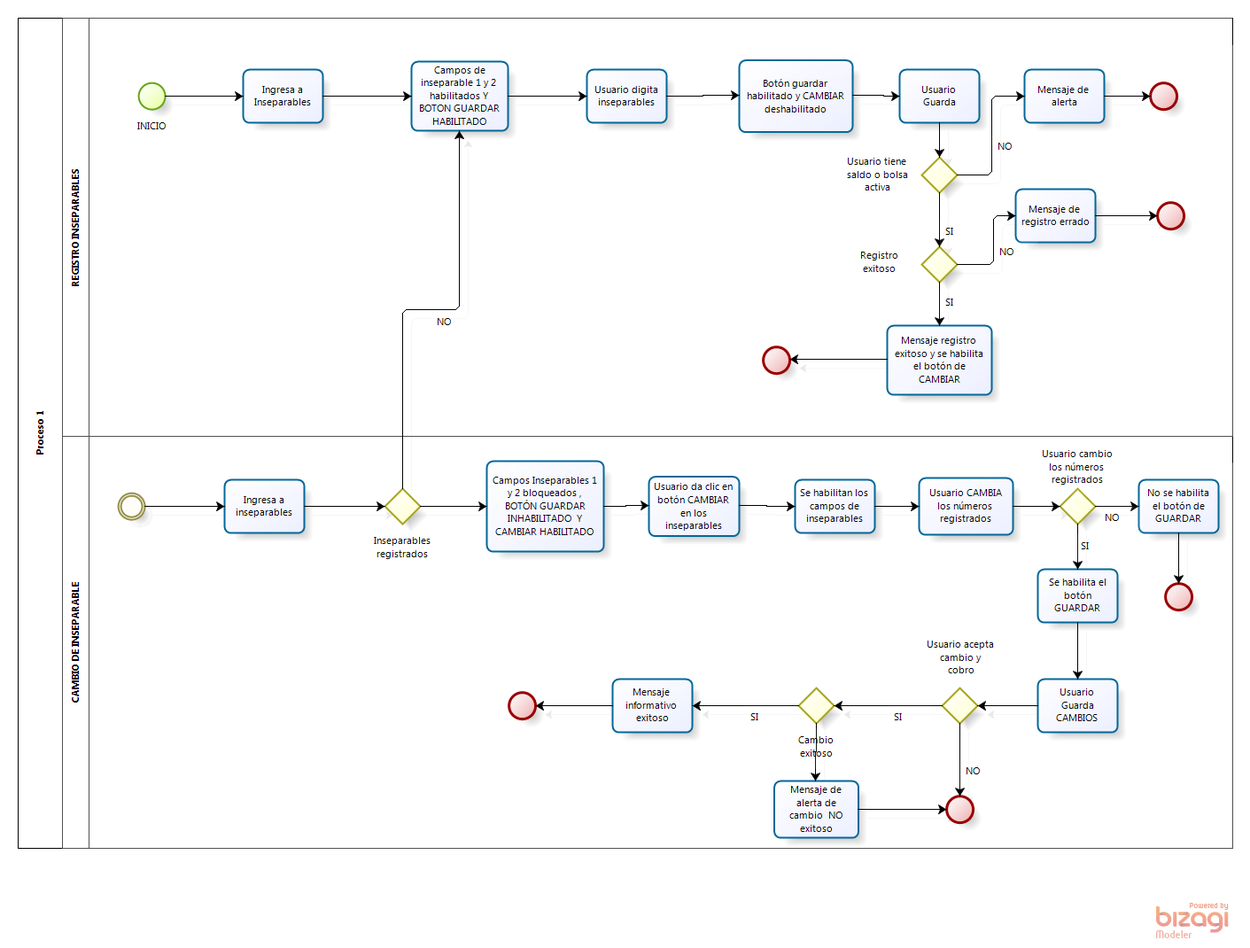
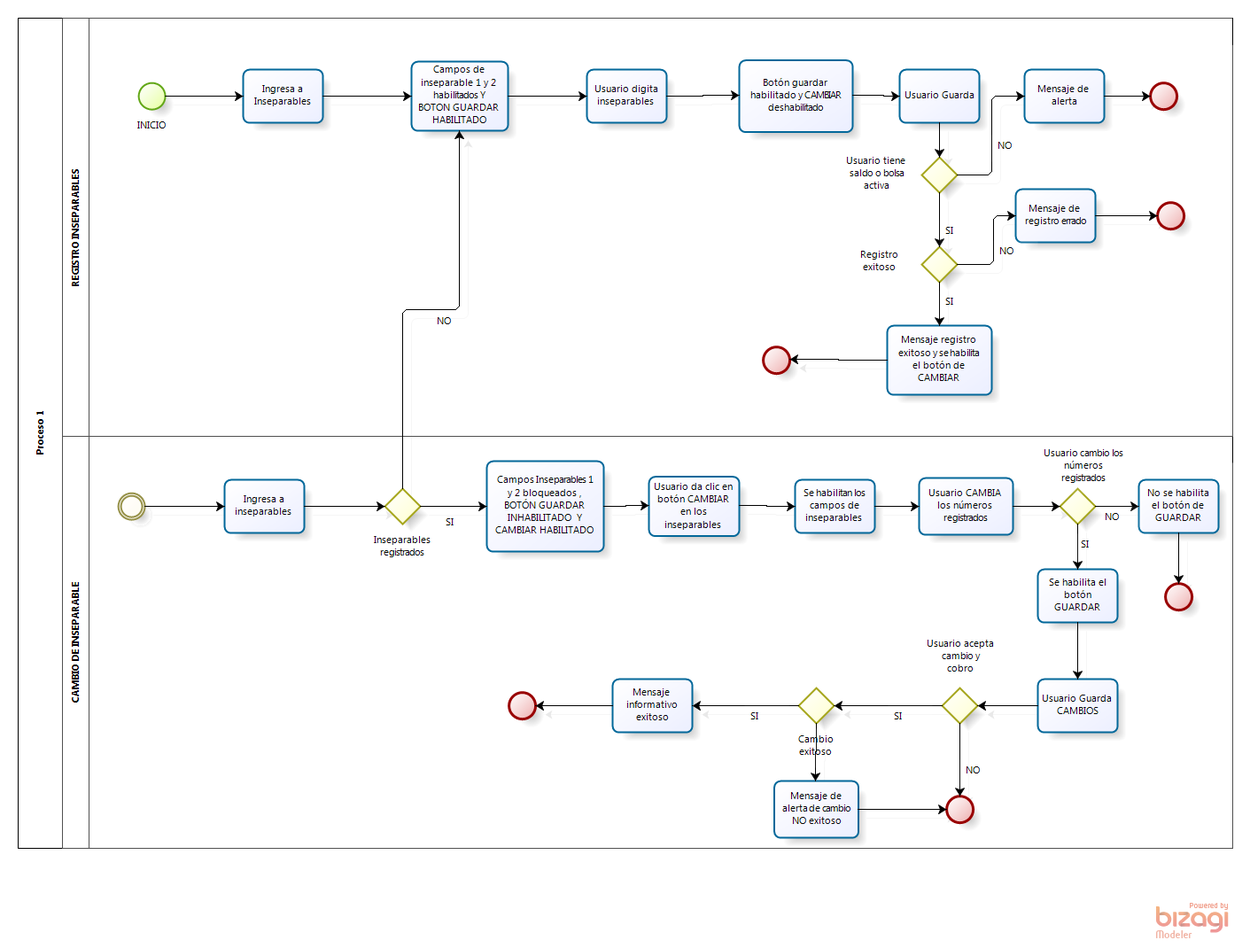
v2.0
Decisiones adicionales

diff --git a/libs/js/json/configuration.json.js b/libs/js/json/configuration.json.js
@@ -1,1 +1,1 @@
-Bizagi.AppModel = {"personalized":false,"userLogoName":"\\libs\\img\\biz-ex-logo.png","bizagiUrl":"http://www.bizagi.com","productName":"Bizagi Process Modeler","modelName":"FLUJO INSEPARABLES V1.0","publishDate":"30/09/2016 09:10:00 a.m.","pages":[{"id":"01a128ee-2be6-414b-a0e6-1554eb43cc81","name":"Diagrama 1","version":"1.0","author":"jgoyeneche","image":"files\\diagrams\\Diagrama_1.png","isSubprocessPage":false,"elements":[{"id":"2af0f6e2-8424-4db7-872c-7b3b4e20bb61","name":"Proceso 1","elementImage":"files\\bpmnElements\\Participant.png","imageBounds":{"points":[{"x":20.0,"y":20.0}],"radius":0.0,"height":937.0,"width":50.0,"shape":"rect"},"elementType":"Participant","pageElements":[{"id":"b8ba07e0-8940-4ed6-acfc-fde3a4902f71","name":"INICIO","elementImage":"files\\bpmnElements\\NoneStart.png","imageBounds":{"points":[{"x":156.0,"y":93.0}],"radius":15.0,"height":30.0,"width":30.0,"shape":"circle"},"elementType":"NoneStart"},{"id":"13f8a951-b37a-4164-8116-332023938bc8","name":"Ingresa a Inseparables","elementImage":"files\\bpmnElements\\AbstractTask.png","imageBounds":{"points":[{"x":274.0,"y":78.0}],"radius":0.0,"height":60.0,"width":90.0,"shape":"rect"},"elementType":"AbstractTask","properties":[]},{"id":"acbdd8df-887f-4461-aa16-e4ef92aa2caa","name":"Campos de inseparable 1 y 2 habilitados Y BOTON GUARDAR HABILITADO","elementImage":"files\\bpmnElements\\AbstractTask.png","imageBounds":{"points":[{"x":464.0,"y":69.0}],"radius":0.0,"height":78.0,"width":109.0,"shape":"rect"},"elementType":"AbstractTask","properties":[]},{"id":"dabdf7ad-f3f3-4ce9-a322-d9faf3807106","name":"Usuario digita inseparables","elementImage":"files\\bpmnElements\\AbstractTask.png","imageBounds":{"points":[{"x":662.0,"y":78.0}],"radius":0.0,"height":60.0,"width":90.0,"shape":"rect"},"elementType":"AbstractTask","properties":[]},{"id":"af2a5fd4-d030-4412-97b0-7c3b95d8464a","name":"Botón guardar habilitado y CAMBIAR deshabilitado","elementImage":"files\\bpmnElements\\AbstractTask.png","imageBounds":{"points":[{"x":834.0,"y":67.5}],"radius":0.0,"height":81.0,"width":128.0,"shape":"rect"},"elementType":"AbstractTask","properties":[]},{"id":"bcb52845-66c1-4c8f-b746-74e1403de68c","name":"Usuario Guarda","elementImage":"files\\bpmnElements\\AbstractTask.png","imageBounds":{"points":[{"x":1015.0,"y":78.0}],"radius":0.0,"height":60.0,"width":90.0,"shape":"rect"},"elementType":"AbstractTask","properties":[]},{"id":"b2fc5b47-1ab0-4dc8-a2f9-0df27e0af09b","name":"Usuario tiene saldo o bolsa activa","elementImage":"files\\bpmnElements\\ExclusiveGateway.png","imageBounds":{"points":[{"x":1040.0,"y":177.0}],"radius":0.0,"height":40.0,"width":40.0,"shape":"poly"},"elementType":"ExclusiveGateway","properties":[],"pageElements":[{"name":"SI","elementType":"SequenceFlow","properties":[]},{"name":"NO","elementType":"SequenceFlow","properties":[]}]},{"id":"20a5b47d-3b0e-434e-9439-94b6a344d32f","name":"Registro exitoso","elementImage":"files\\bpmnElements\\ExclusiveGateway.png","imageBounds":{"points":[{"x":1040.0,"y":278.0}],"radius":0.0,"height":40.0,"width":40.0,"shape":"poly"},"elementType":"ExclusiveGateway","properties":[],"pageElements":[{"name":"NO","elementType":"SequenceFlow","properties":[]},{"name":"SI","elementType":"SequenceFlow","properties":[]}]},{"id":"046c802e-0c74-4300-a1c9-315c52ce7336","name":"Mensaje registro exitoso y se habilita el botón de CAMBIAR","elementImage":"files\\bpmnElements\\AbstractTask.png","imageBounds":{"points":[{"x":1001.0,"y":367.0}],"radius":0.0,"height":78.0,"width":118.0,"shape":"rect"},"elementType":"AbstractTask","properties":[]},{"id":"d5538574-af4e-46a9-ba32-2482d75119e9","name":"Simple","elementImage":"files\\bpmnElements\\NoneEnd.png","imageBounds":{"points":[{"x":861.0,"y":390.999969}],"radius":15.0,"height":30.0,"width":30.0,"shape":"circle"},"elementType":"NoneEnd"},{"id":"b83f0fd2-bca6-4348-bf78-3dba9e42f9a5","name":"Mensaje de registro errado","elementImage":"files\\bpmnElements\\AbstractTask.png","imageBounds":{"points":[{"x":1146.0,"y":213.0}],"radius":0.0,"height":60.0,"width":90.0,"shape":"rect"},"elementType":"AbstractTask","properties":[]},{"id":"0e9a61be-d866-47ac-a229-832d4a90310c","name":"Simple","elementImage":"files\\bpmnElements\\NoneEnd.png","imageBounds":{"points":[{"x":1306.0,"y":228.0}],"radius":15.0,"height":30.0,"width":30.0,"shape":"circle"},"elementType":"NoneEnd"},{"id":"b5cbed1e-7ab6-4d23-8ce3-3484a4eca612","name":"Mensaje de alerta ","elementImage":"files\\bpmnElements\\AbstractTask.png","imageBounds":{"points":[{"x":1156.0,"y":78.0}],"radius":0.0,"height":60.0,"width":90.0,"shape":"rect"},"elementType":"AbstractTask","properties":[]},{"id":"1e777851-ec50-4e3e-a79a-13f4f715d6c1","name":"Simple","elementImage":"files\\bpmnElements\\NoneEnd.png","imageBounds":{"points":[{"x":1298.0,"y":93.0}],"radius":15.0,"height":30.0,"width":30.0,"shape":"circle"},"elementType":"NoneEnd"},{"id":"c10985f5-9ed6-439c-8f32-ddfc0bf2ed9d","name":"Inseparables registrados","elementImage":"files\\bpmnElements\\ExclusiveGateway.png","imageBounds":{"points":[{"x":434.0,"y":551.0}],"radius":0.0,"height":40.0,"width":40.0,"shape":"poly"},"elementType":"ExclusiveGateway","properties":[],"pageElements":[{"name":"NO","elementType":"SequenceFlow","properties":[]},{"name":"Campos Inseparables 1 y 2 bloqueados , BOTÓN GUARDAR INHABILITADO  Y CAMBIAR HABILITADO","elementType":"SequenceFlow","properties":[]}]},{"id":"87e258d3-9a9b-47d6-948b-597c4e45ade4","name":"Campos Inseparables 1 y 2 bloqueados , BOTÓN GUARDAR INHABILITADO  Y CAMBIAR HABILITADO","elementImage":"files\\bpmnElements\\AbstractTask.png","imageBounds":{"points":[{"x":549.0,"y":520.0}],"radius":0.0,"height":102.0,"width":132.0,"shape":"rect"},"elementType":"AbstractTask","properties":[]},{"id":"f075516c-d99a-4b81-9b78-ad1f35954093","name":"Usuario da clic en botón CAMBIAR en los inseparables","elementImage":"files\\bpmnElements\\AbstractTask.png","imageBounds":{"points":[{"x":732.0,"y":537.5}],"radius":0.0,"height":67.0,"width":102.0,"shape":"rect"},"elementType":"AbstractTask","properties":[]},{"id":"10dffe9f-9d0a-40d6-9e39-5d494e64915b","name":"Se habilitan los campos de inseparables","elementImage":"files\\bpmnElements\\AbstractTask.png","imageBounds":{"points":[{"x":897.0,"y":541.0}],"radius":0.0,"height":60.0,"width":90.0,"shape":"rect"},"elementType":"AbstractTask","properties":[]},{"id":"f1d0d034-e2c9-4bd9-be72-bd36426d7591","name":"Usuario CAMBIA los números registrados","elementImage":"files\\bpmnElements\\AbstractTask.png","imageBounds":{"points":[{"x":1037.0,"y":539.0}],"radius":0.0,"height":64.0,"width":106.0,"shape":"rect"},"elementType":"AbstractTask","properties":[]},{"id":"d2b2a14a-bbd4-40c4-8f0d-9f554c621398","name":"Usuario cambio los números registrados","elementImage":"files\\bpmnElements\\ExclusiveGateway.png","imageBounds":{"points":[{"x":1196.0,"y":551.0}],"radius":0.0,"height":40.0,"width":40.0,"shape":"poly"},"elementType":"ExclusiveGateway","properties":[],"pageElements":[{"name":"NO","elementType":"SequenceFlow","properties":[]},{"name":"SI","elementType":"SequenceFlow","properties":[]}]},{"id":"3f60456e-31fc-4485-837b-100361c7bbbf","name":"No se habilita el botón de GUARDAR","elementImage":"files\\bpmnElements\\AbstractTask.png","imageBounds":{"points":[{"x":1285.0,"y":541.0}],"radius":0.0,"height":60.0,"width":90.0,"shape":"rect"},"elementType":"AbstractTask","properties":[]},{"id":"1fffb799-79dd-4192-aae2-9133c8abe69b","name":"Simple","elementImage":"files\\bpmnElements\\NoneEnd.png","imageBounds":{"points":[{"x":1315.0,"y":658.0}],"radius":15.0,"height":30.0,"width":30.0,"shape":"circle"},"elementType":"NoneEnd"},{"id":"dd4baf11-0e95-4ae8-ba43-04c827d12988","name":"Se habilita el botón GUARDAR","elementImage":"files\\bpmnElements\\AbstractTask.png","imageBounds":{"points":[{"x":1171.0,"y":642.0}],"radius":0.0,"height":60.0,"width":90.0,"shape":"rect"},"elementType":"AbstractTask","properties":[]},{"id":"8b32eaa3-2b74-444b-8ee1-6408e9d34cdc","name":"Usuario Guarda CAMBIOS","elementImage":"files\\bpmnElements\\AbstractTask.png","imageBounds":{"points":[{"x":1171.0,"y":766.0}],"radius":0.0,"height":60.0,"width":90.0,"shape":"rect"},"elementType":"AbstractTask","properties":[]},{"id":"49562a8a-a16e-45ee-877a-e9bc5541dc62","name":"Usuario acepta cambio y cobro","elementImage":"files\\bpmnElements\\ExclusiveGateway.png","imageBounds":{"points":[{"x":1063.0,"y":776.0}],"radius":0.0,"height":40.0,"width":40.0,"shape":"poly"},"elementType":"ExclusiveGateway","properties":[],"pageElements":[{"name":"SI","elementType":"SequenceFlow","properties":[]},{"name":"NO","elementType":"SequenceFlow","properties":[]}]},{"id":"b9d3ab1c-fc5e-41df-81fb-5757518d20a7","name":"Cambio exitoso","elementImage":"files\\bpmnElements\\ExclusiveGateway.png","imageBounds":{"points":[{"x":901.0,"y":776.0}],"radius":0.0,"height":40.0,"width":40.0,"shape":"poly"},"elementType":"ExclusiveGateway","properties":[],"pageElements":[{"name":"SI","elementType":"SequenceFlow","properties":[]},{"name":"Mensaje de alerta de cambio  NO exitoso","elementType":"SequenceFlow","properties":[]}]},{"id":"876c63e2-e37b-48ae-9e2f-0c12bc2fe8c7","name":"Mensaje informativo exitoso","elementImage":"files\\bpmnElements\\AbstractTask.png","imageBounds":{"points":[{"x":691.0,"y":766.0}],"radius":0.0,"height":60.0,"width":90.0,"shape":"rect"},"elementType":"AbstractTask","properties":[]},{"id":"7e0210c6-043e-4d6c-8a3e-c56379e9cc42","name":"Simple","elementImage":"files\\bpmnElements\\NoneEnd.png","imageBounds":{"points":[{"x":574.0,"y":781.0}],"radius":15.0,"height":30.0,"width":30.0,"shape":"circle"},"elementType":"NoneEnd"},{"id":"14d585a5-845b-4b7c-aba2-5936d54665f4","name":"Mensaje de alerta de cambio  NO exitoso","elementImage":"files\\bpmnElements\\AbstractTask.png","imageBounds":{"points":[{"x":873.5,"y":881.0}],"radius":0.0,"height":64.0,"width":95.0,"shape":"rect"},"elementType":"AbstractTask","properties":[]},{"id":"b31ea22c-ddcb-424d-89f5-8a4ca8d96ed0","name":"Simple","elementImage":"files\\bpmnElements\\NoneEnd.png","imageBounds":{"points":[{"x":1068.0,"y":898.0}],"radius":15.0,"height":30.0,"width":30.0,"shape":"circle"},"elementType":"NoneEnd"},{"id":"573dd8cd-d153-44be-865f-1ff82c0e268f","name":"Ingresa a inseparables","elementImage":"files\\bpmnElements\\AbstractTask.png","imageBounds":{"points":[{"x":253.0,"y":541.0}],"radius":0.0,"height":60.0,"width":90.0,"shape":"rect"},"elementType":"AbstractTask","properties":[]},{"id":"43202375-5e6e-44a3-9d03-ed3e79e5dc20","name":"Simple","elementImage":"files\\bpmnElements\\NoneIntermediate.png","imageBounds":{"points":[{"x":133.0,"y":556.0}],"radius":15.0,"height":30.0,"width":30.0,"shape":"circle"},"elementType":"NoneIntermediate"},{"id":"f35a0217-5de6-4b6b-9196-6f0673a6e8ee","name":"REGISTRO INSEPARABLES","elementImage":"files\\bpmnElements\\Lane.png","imageBounds":{"points":[{"x":70.0,"y":20.0}],"radius":0.0,"height":472.0,"width":30.0,"shape":"rect"},"elementType":"Lane"},{"id":"0af3581a-c9a8-4ae8-a526-20751237bf52","name":"CAMBIO DE INSEPARABLE","elementImage":"files\\bpmnElements\\Lane.png","imageBounds":{"points":[{"x":70.0,"y":492.0}],"radius":0.0,"height":465.0,"width":30.0,"shape":"rect"},"elementType":"Lane"}]}]}],"texts":{"tableOfContents":"Tabla de Contenidos","pageNumber":"Página","pageNumberLabelOf":"de","version":"Versión","author":"Autor","description":"Descripción","mainPool":"Proceso principal","mainPoolDescription":"Proceso principal Descripción","processDiagrams":"Diagramas de Proceso","processElements":"Elementos del proceso","elements":"Elementos del proceso","defaultElementName":"Elemento","performers":"Ejecutantes","connectors":"Conectores","connector":"Conector","home":"Home","search":"Buscar","goToParentProcess":"<< Ir al proceso padre","visitBizagi":"Visite bizagi.com","contains":"Contiene {0} Subprocesos","showAll":"Ver todo","fullScreen":"Pantalla completa","zoomIn":"Acercar","zoomOut":"Alejar","close":"Cerrar","menu":"Menu: ","errorPage":"Error al visualizar la página","process":"Proceso","subProcess":"Subprocesos publicados","contain":"Contains","checkAttributes":"Ver atributos","checkOverview":"Ver resumen","unavailableResource":"El recurso no esta disponible","localResource":"El recurso puede accederse localmente","performer":"Ejecutante","linktoimage":"Hipervínculo a imagen","presentationAction":"Acciones de presentación","searchGlobal":"Buscar todo","searchLocal":"Buscar en este proceso","searchResults":"No se encontraron resultados","titlePage":"Inicio","emptyElement":"Este elemento aún no se ha documentado","unsupported":"Su navegador no soporta contenido mostrado en esta página. <br> Le recomendamos actualizar su navegador.","details":"Detalles","expand":"Expandir","mainPoolProperties":"Propiedades Proceso principal","cannotVisualize":"No es posible visualizar correctamente","resourceNotFound":"No se encontró el recurso solicitado:"},"searchMap":[{"containerId":"01a128ee-2be6-414b-a0e6-1554eb43cc81","containerName":"Diagrama 1","isSubprocess":false,"elements":[{"id":"2af0f6e2-8424-4db7-872c-7b3b4e20bb61","value":"Proceso 1"},{"id":"f35a0217-5de6-4b6b-9196-6f0673a6e8ee","value":"REGISTRO INSEPARABLES"},{"id":"0af3581a-c9a8-4ae8-a526-20751237bf52","value":"CAMBIO DE INSEPARABLE"},{"id":"b8ba07e0-8940-4ed6-acfc-fde3a4902f71","value":"INICIO"},{"id":"13f8a951-b37a-4164-8116-332023938bc8","value":"Ingresa a Inseparables"},{"id":"acbdd8df-887f-4461-aa16-e4ef92aa2caa","value":"Campos de inseparable 1 y 2 habilitados Y BOTON GUARDAR HABILITADO"},{"id":"dabdf7ad-f3f3-4ce9-a322-d9faf3807106","value":"Usuario digita inseparables"},{"id":"af2a5fd4-d030-4412-97b0-7c3b95d8464a","value":"Botón guardar habilitado y CAMBIAR deshabilitado"},{"id":"bcb52845-66c1-4c8f-b746-74e1403de68c","value":"Usuario Guarda"},{"id":"20a5b47d-3b0e-434e-9439-94b6a344d32f","value":"Registro exitoso"},{"id":"046c802e-0c74-4300-a1c9-315c52ce7336","value":"Mensaje registro exitoso y se habilita el botón de CAMBIAR"},{"id":"d5538574-af4e-46a9-ba32-2482d75119e9","value":""},{"id":"b83f0fd2-bca6-4348-bf78-3dba9e42f9a5","value":"Mensaje de registro errado"},{"id":"0e9a61be-d866-47ac-a229-832d4a90310c","value":""},{"id":"b2fc5b47-1ab0-4dc8-a2f9-0df27e0af09b","value":"Usuario tiene saldo o bolsa activa"},{"id":"b5cbed1e-7ab6-4d23-8ce3-3484a4eca612","value":"Mensaje de alerta "},{"id":"1e777851-ec50-4e3e-a79a-13f4f715d6c1","value":""},{"id":"573dd8cd-d153-44be-865f-1ff82c0e268f","value":"Ingresa a inseparables"},{"id":"c10985f5-9ed6-439c-8f32-ddfc0bf2ed9d","value":"Inseparables registrados"},{"id":"87e258d3-9a9b-47d6-948b-597c4e45ade4","value":"Campos Inseparables 1 y 2 bloqueados , BOTÓN GUARDAR INHABILITADO  Y CAMBIAR HABILITADO"},{"id":"f075516c-d99a-4b81-9b78-ad1f35954093","value":"Usuario da clic en botón CAMBIAR en los inseparables"},{"id":"10dffe9f-9d0a-40d6-9e39-5d494e64915b","value":"Se habilitan los campos de inseparables"},{"id":"f1d0d034-e2c9-4bd9-be72-bd36426d7591","value":"Usuario CAMBIA los números registrados"},{"id":"d2b2a14a-bbd4-40c4-8f0d-9f554c621398","value":"Usuario cambio los números registrados"},{"id":"3f60456e-31fc-4485-837b-100361c7bbbf","value":"No se habilita el botón de GUARDAR"},{"id":"dd4baf11-0e95-4ae8-ba43-04c827d12988","value":"Se habilita el botón GUARDAR"},{"id":"1fffb799-79dd-4192-aae2-9133c8abe69b","value":""},{"id":"8b32eaa3-2b74-444b-8ee1-6408e9d34cdc","value":"Usuario Guarda CAMBIOS"},{"id":"49562a8a-a16e-45ee-877a-e9bc5541dc62","value":"Usuario acepta cambio y cobro"},{"id":"b9d3ab1c-fc5e-41df-81fb-5757518d20a7","value":"Cambio exitoso"},{"id":"876c63e2-e37b-48ae-9e2f-0c12bc2fe8c7","value":"Mensaje informativo exitoso"},{"id":"b31ea22c-ddcb-424d-89f5-8a4ca8d96ed0","value":""},{"id":"14d585a5-845b-4b7c-aba2-5936d54665f4","value":"Mensaje de alerta de cambio  NO exitoso"},{"id":"7e0210c6-043e-4d6c-8a3e-c56379e9cc42","value":""},{"id":"43202375-5e6e-44a3-9d03-ed3e79e5dc20","value":""}]}]}
+Bizagi.AppModel = {"personalized":false,"userLogoName":"\\libs\\img\\biz-ex-logo.png","bizagiUrl":"http://www.bizagi.com","productName":"Bizagi Process Modeler","modelName":"FLUJO INSEPARABLES V1.0","publishDate":"30/09/2016 09:36:03 a.m.","pages":[{"id":"01a128ee-2be6-414b-a0e6-1554eb43cc81","name":"Diagrama 1","version":"1.0","author":"jgoyeneche","image":"files\\diagrams\\Diagrama_1.png","isSubprocessPage":false,"elements":[{"id":"2af0f6e2-8424-4db7-872c-7b3b4e20bb61","name":"Proceso 1","elementImage":"files\\bpmnElements\\Participant.png","imageBounds":{"points":[{"x":20.0,"y":20.0}],"radius":0.0,"height":937.0,"width":50.0,"shape":"rect"},"elementType":"Participant","pageElements":[{"id":"b8ba07e0-8940-4ed6-acfc-fde3a4902f71","name":"INICIO","elementImage":"files\\bpmnElements\\NoneStart.png","imageBounds":{"points":[{"x":156.0,"y":93.0}],"radius":15.0,"height":30.0,"width":30.0,"shape":"circle"},"elementType":"NoneStart"},{"id":"13f8a951-b37a-4164-8116-332023938bc8","name":"Ingresa a Inseparables","elementImage":"files\\bpmnElements\\AbstractTask.png","imageBounds":{"points":[{"x":274.0,"y":78.0}],"radius":0.0,"height":60.0,"width":90.0,"shape":"rect"},"elementType":"AbstractTask","properties":[]},{"id":"acbdd8df-887f-4461-aa16-e4ef92aa2caa","name":"Campos de inseparable 1 y 2 habilitados Y BOTON GUARDAR HABILITADO","elementImage":"files\\bpmnElements\\AbstractTask.png","imageBounds":{"points":[{"x":464.0,"y":69.0}],"radius":0.0,"height":78.0,"width":109.0,"shape":"rect"},"elementType":"AbstractTask","properties":[]},{"id":"dabdf7ad-f3f3-4ce9-a322-d9faf3807106","name":"Usuario digita inseparables","elementImage":"files\\bpmnElements\\AbstractTask.png","imageBounds":{"points":[{"x":662.0,"y":78.0}],"radius":0.0,"height":60.0,"width":90.0,"shape":"rect"},"elementType":"AbstractTask","properties":[]},{"id":"af2a5fd4-d030-4412-97b0-7c3b95d8464a","name":"Botón guardar habilitado y CAMBIAR deshabilitado","elementImage":"files\\bpmnElements\\AbstractTask.png","imageBounds":{"points":[{"x":834.0,"y":67.5}],"radius":0.0,"height":81.0,"width":128.0,"shape":"rect"},"elementType":"AbstractTask","properties":[]},{"id":"bcb52845-66c1-4c8f-b746-74e1403de68c","name":"Usuario Guarda","elementImage":"files\\bpmnElements\\AbstractTask.png","imageBounds":{"points":[{"x":1015.0,"y":78.0}],"radius":0.0,"height":60.0,"width":90.0,"shape":"rect"},"elementType":"AbstractTask","properties":[]},{"id":"b2fc5b47-1ab0-4dc8-a2f9-0df27e0af09b","name":"Usuario tiene saldo o bolsa activa","elementImage":"files\\bpmnElements\\ExclusiveGateway.png","imageBounds":{"points":[{"x":1040.0,"y":177.0}],"radius":0.0,"height":40.0,"width":40.0,"shape":"poly"},"elementType":"ExclusiveGateway","properties":[],"pageElements":[{"name":"SI","elementType":"SequenceFlow","properties":[]},{"name":"NO","elementType":"SequenceFlow","properties":[]}]},{"id":"20a5b47d-3b0e-434e-9439-94b6a344d32f","name":"Registro exitoso","elementImage":"files\\bpmnElements\\ExclusiveGateway.png","imageBounds":{"points":[{"x":1040.0,"y":278.0}],"radius":0.0,"height":40.0,"width":40.0,"shape":"poly"},"elementType":"ExclusiveGateway","properties":[],"pageElements":[{"name":"NO","elementType":"SequenceFlow","properties":[]},{"name":"SI","elementType":"SequenceFlow","properties":[]}]},{"id":"046c802e-0c74-4300-a1c9-315c52ce7336","name":"Mensaje registro exitoso y se habilita el botón de CAMBIAR","elementImage":"files\\bpmnElements\\AbstractTask.png","imageBounds":{"points":[{"x":1001.0,"y":367.0}],"radius":0.0,"height":78.0,"width":118.0,"shape":"rect"},"elementType":"AbstractTask","properties":[]},{"id":"d5538574-af4e-46a9-ba32-2482d75119e9","name":"Simple","elementImage":"files\\bpmnElements\\NoneEnd.png","imageBounds":{"points":[{"x":861.0,"y":390.999969}],"radius":15.0,"height":30.0,"width":30.0,"shape":"circle"},"elementType":"NoneEnd"},{"id":"b83f0fd2-bca6-4348-bf78-3dba9e42f9a5","name":"Mensaje de registro errado","elementImage":"files\\bpmnElements\\AbstractTask.png","imageBounds":{"points":[{"x":1146.0,"y":213.0}],"radius":0.0,"height":60.0,"width":90.0,"shape":"rect"},"elementType":"AbstractTask","properties":[]},{"id":"0e9a61be-d866-47ac-a229-832d4a90310c","name":"Simple","elementImage":"files\\bpmnElements\\NoneEnd.png","imageBounds":{"points":[{"x":1306.0,"y":228.0}],"radius":15.0,"height":30.0,"width":30.0,"shape":"circle"},"elementType":"NoneEnd"},{"id":"b5cbed1e-7ab6-4d23-8ce3-3484a4eca612","name":"Mensaje de alerta ","elementImage":"files\\bpmnElements\\AbstractTask.png","imageBounds":{"points":[{"x":1156.0,"y":78.0}],"radius":0.0,"height":60.0,"width":90.0,"shape":"rect"},"elementType":"AbstractTask","properties":[]},{"id":"1e777851-ec50-4e3e-a79a-13f4f715d6c1","name":"Simple","elementImage":"files\\bpmnElements\\NoneEnd.png","imageBounds":{"points":[{"x":1298.0,"y":93.0}],"radius":15.0,"height":30.0,"width":30.0,"shape":"circle"},"elementType":"NoneEnd"},{"id":"c10985f5-9ed6-439c-8f32-ddfc0bf2ed9d","name":"Inseparables registrados","elementImage":"files\\bpmnElements\\ExclusiveGateway.png","imageBounds":{"points":[{"x":434.0,"y":551.0}],"radius":0.0,"height":40.0,"width":40.0,"shape":"poly"},"elementType":"ExclusiveGateway","properties":[],"pageElements":[{"name":"NO","elementType":"SequenceFlow","properties":[]},{"name":"SI","elementType":"SequenceFlow","properties":[]}]},{"id":"87e258d3-9a9b-47d6-948b-597c4e45ade4","name":"Campos Inseparables 1 y 2 bloqueados , BOTÓN GUARDAR INHABILITADO  Y CAMBIAR HABILITADO","elementImage":"files\\bpmnElements\\AbstractTask.png","imageBounds":{"points":[{"x":549.0,"y":520.0}],"radius":0.0,"height":102.0,"width":132.0,"shape":"rect"},"elementType":"AbstractTask","properties":[]},{"id":"f075516c-d99a-4b81-9b78-ad1f35954093","name":"Usuario da clic en botón CAMBIAR en los inseparables","elementImage":"files\\bpmnElements\\AbstractTask.png","imageBounds":{"points":[{"x":732.0,"y":537.5}],"radius":0.0,"height":67.0,"width":102.0,"shape":"rect"},"elementType":"AbstractTask","properties":[]},{"id":"10dffe9f-9d0a-40d6-9e39-5d494e64915b","name":"Se habilitan los campos de inseparables","elementImage":"files\\bpmnElements\\AbstractTask.png","imageBounds":{"points":[{"x":897.0,"y":541.0}],"radius":0.0,"height":60.0,"width":90.0,"shape":"rect"},"elementType":"AbstractTask","properties":[]},{"id":"f1d0d034-e2c9-4bd9-be72-bd36426d7591","name":"Usuario CAMBIA los números registrados","elementImage":"files\\bpmnElements\\AbstractTask.png","imageBounds":{"points":[{"x":1037.0,"y":539.0}],"radius":0.0,"height":64.0,"width":106.0,"shape":"rect"},"elementType":"AbstractTask","properties":[]},{"id":"d2b2a14a-bbd4-40c4-8f0d-9f554c621398","name":"Usuario cambio los números registrados","elementImage":"files\\bpmnElements\\ExclusiveGateway.png","imageBounds":{"points":[{"x":1196.0,"y":551.0}],"radius":0.0,"height":40.0,"width":40.0,"shape":"poly"},"elementType":"ExclusiveGateway","properties":[],"pageElements":[{"name":"NO","elementType":"SequenceFlow","properties":[]},{"name":"SI","elementType":"SequenceFlow","properties":[]}]},{"id":"3f60456e-31fc-4485-837b-100361c7bbbf","name":"No se habilita el botón de GUARDAR","elementImage":"files\\bpmnElements\\AbstractTask.png","imageBounds":{"points":[{"x":1285.0,"y":541.0}],"radius":0.0,"height":60.0,"width":90.0,"shape":"rect"},"elementType":"AbstractTask","properties":[]},{"id":"1fffb799-79dd-4192-aae2-9133c8abe69b","name":"Simple","elementImage":"files\\bpmnElements\\NoneEnd.png","imageBounds":{"points":[{"x":1315.0,"y":658.0}],"radius":15.0,"height":30.0,"width":30.0,"shape":"circle"},"elementType":"NoneEnd"},{"id":"dd4baf11-0e95-4ae8-ba43-04c827d12988","name":"Se habilita el botón GUARDAR","elementImage":"files\\bpmnElements\\AbstractTask.png","imageBounds":{"points":[{"x":1171.0,"y":642.0}],"radius":0.0,"height":60.0,"width":90.0,"shape":"rect"},"elementType":"AbstractTask","properties":[]},{"id":"8b32eaa3-2b74-444b-8ee1-6408e9d34cdc","name":"Usuario Guarda CAMBIOS","elementImage":"files\\bpmnElements\\AbstractTask.png","imageBounds":{"points":[{"x":1171.0,"y":766.0}],"radius":0.0,"height":60.0,"width":90.0,"shape":"rect"},"elementType":"AbstractTask","properties":[]},{"id":"49562a8a-a16e-45ee-877a-e9bc5541dc62","name":"Usuario acepta cambio y cobro","elementImage":"files\\bpmnElements\\ExclusiveGateway.png","imageBounds":{"points":[{"x":1063.0,"y":776.0}],"radius":0.0,"height":40.0,"width":40.0,"shape":"poly"},"elementType":"ExclusiveGateway","properties":[],"pageElements":[{"name":"SI","elementType":"SequenceFlow","properties":[]},{"name":"NO","elementType":"SequenceFlow","properties":[]}]},{"id":"b9d3ab1c-fc5e-41df-81fb-5757518d20a7","name":"Cambio exitoso","elementImage":"files\\bpmnElements\\ExclusiveGateway.png","imageBounds":{"points":[{"x":901.0,"y":776.0}],"radius":0.0,"height":40.0,"width":40.0,"shape":"poly"},"elementType":"ExclusiveGateway","properties":[],"pageElements":[{"name":"SI","elementType":"SequenceFlow","properties":[]},{"name":"Mensaje de alerta de cambio  NO exitoso","elementType":"SequenceFlow","properties":[]}]},{"id":"876c63e2-e37b-48ae-9e2f-0c12bc2fe8c7","name":"Mensaje informativo exitoso","elementImage":"files\\bpmnElements\\AbstractTask.png","imageBounds":{"points":[{"x":691.0,"y":766.0}],"radius":0.0,"height":60.0,"width":90.0,"shape":"rect"},"elementType":"AbstractTask","properties":[]},{"id":"7e0210c6-043e-4d6c-8a3e-c56379e9cc42","name":"Simple","elementImage":"files\\bpmnElements\\NoneEnd.png","imageBounds":{"points":[{"x":574.0,"y":781.0}],"radius":15.0,"height":30.0,"width":30.0,"shape":"circle"},"elementType":"NoneEnd"},{"id":"14d585a5-845b-4b7c-aba2-5936d54665f4","name":"Mensaje de alerta de cambio  NO exitoso","elementImage":"files\\bpmnElements\\AbstractTask.png","imageBounds":{"points":[{"x":873.5,"y":881.0}],"radius":0.0,"height":64.0,"width":95.0,"shape":"rect"},"elementType":"AbstractTask","properties":[]},{"id":"b31ea22c-ddcb-424d-89f5-8a4ca8d96ed0","name":"Simple","elementImage":"files\\bpmnElements\\NoneEnd.png","imageBounds":{"points":[{"x":1068.0,"y":898.0}],"radius":15.0,"height":30.0,"width":30.0,"shape":"circle"},"elementType":"NoneEnd"},{"id":"573dd8cd-d153-44be-865f-1ff82c0e268f","name":"Ingresa a inseparables","elementImage":"files\\bpmnElements\\AbstractTask.png","imageBounds":{"points":[{"x":253.0,"y":541.0}],"radius":0.0,"height":60.0,"width":90.0,"shape":"rect"},"elementType":"AbstractTask","properties":[]},{"id":"43202375-5e6e-44a3-9d03-ed3e79e5dc20","name":"Simple","elementImage":"files\\bpmnElements\\NoneIntermediate.png","imageBounds":{"points":[{"x":133.0,"y":556.0}],"radius":15.0,"height":30.0,"width":30.0,"shape":"circle"},"elementType":"NoneIntermediate"},{"id":"f35a0217-5de6-4b6b-9196-6f0673a6e8ee","name":"REGISTRO INSEPARABLES","elementImage":"files\\bpmnElements\\Lane.png","imageBounds":{"points":[{"x":70.0,"y":20.0}],"radius":0.0,"height":472.0,"width":30.0,"shape":"rect"},"elementType":"Lane"},{"id":"0af3581a-c9a8-4ae8-a526-20751237bf52","name":"CAMBIO DE INSEPARABLE","elementImage":"files\\bpmnElements\\Lane.png","imageBounds":{"points":[{"x":70.0,"y":492.0}],"radius":0.0,"height":465.0,"width":30.0,"shape":"rect"},"elementType":"Lane"}]}]}],"texts":{"tableOfContents":"Tabla de Contenidos","pageNumber":"Página","pageNumberLabelOf":"de","version":"Versión","author":"Autor","description":"Descripción","mainPool":"Proceso principal","mainPoolDescription":"Proceso principal Descripción","processDiagrams":"Diagramas de Proceso","processElements":"Elementos del proceso","elements":"Elementos del proceso","defaultElementName":"Elemento","performers":"Ejecutantes","connectors":"Conectores","connector":"Conector","home":"Home","search":"Buscar","goToParentProcess":"<< Ir al proceso padre","visitBizagi":"Visite bizagi.com","contains":"Contiene {0} Subprocesos","showAll":"Ver todo","fullScreen":"Pantalla completa","zoomIn":"Acercar","zoomOut":"Alejar","close":"Cerrar","menu":"Menu: ","errorPage":"Error al visualizar la página","process":"Proceso","subProcess":"Subprocesos publicados","contain":"Contains","checkAttributes":"Ver atributos","checkOverview":"Ver resumen","unavailableResource":"El recurso no esta disponible","localResource":"El recurso puede accederse localmente","performer":"Ejecutante","linktoimage":"Hipervínculo a imagen","presentationAction":"Acciones de presentación","searchGlobal":"Buscar todo","searchLocal":"Buscar en este proceso","searchResults":"No se encontraron resultados","titlePage":"Inicio","emptyElement":"Este elemento aún no se ha documentado","unsupported":"Su navegador no soporta contenido mostrado en esta página. <br> Le recomendamos actualizar su navegador.","details":"Detalles","expand":"Expandir","mainPoolProperties":"Propiedades Proceso principal","cannotVisualize":"No es posible visualizar correctamente","resourceNotFound":"No se encontró el recurso solicitado:"},"searchMap":[{"containerId":"01a128ee-2be6-414b-a0e6-1554eb43cc81","containerName":"Diagrama 1","isSubprocess":false,"elements":[{"id":"2af0f6e2-8424-4db7-872c-7b3b4e20bb61","value":"Proceso 1"},{"id":"f35a0217-5de6-4b6b-9196-6f0673a6e8ee","value":"REGISTRO INSEPARABLES"},{"id":"0af3581a-c9a8-4ae8-a526-20751237bf52","value":"CAMBIO DE INSEPARABLE"},{"id":"b8ba07e0-8940-4ed6-acfc-fde3a4902f71","value":"INICIO"},{"id":"13f8a951-b37a-4164-8116-332023938bc8","value":"Ingresa a Inseparables"},{"id":"acbdd8df-887f-4461-aa16-e4ef92aa2caa","value":"Campos de inseparable 1 y 2 habilitados Y BOTON GUARDAR HABILITADO"},{"id":"dabdf7ad-f3f3-4ce9-a322-d9faf3807106","value":"Usuario digita inseparables"},{"id":"af2a5fd4-d030-4412-97b0-7c3b95d8464a","value":"Botón guardar habilitado y CAMBIAR deshabilitado"},{"id":"bcb52845-66c1-4c8f-b746-74e1403de68c","value":"Usuario Guarda"},{"id":"20a5b47d-3b0e-434e-9439-94b6a344d32f","value":"Registro exitoso"},{"id":"046c802e-0c74-4300-a1c9-315c52ce7336","value":"Mensaje registro exitoso y se habilita el botón de CAMBIAR"},{"id":"d5538574-af4e-46a9-ba32-2482d75119e9","value":""},{"id":"b83f0fd2-bca6-4348-bf78-3dba9e42f9a5","value":"Mensaje de registro errado"},{"id":"0e9a61be-d866-47ac-a229-832d4a90310c","value":""},{"id":"b2fc5b47-1ab0-4dc8-a2f9-0df27e0af09b","value":"Usuario tiene saldo o bolsa activa"},{"id":"b5cbed1e-7ab6-4d23-8ce3-3484a4eca612","value":"Mensaje de alerta "},{"id":"1e777851-ec50-4e3e-a79a-13f4f715d6c1","value":""},{"id":"573dd8cd-d153-44be-865f-1ff82c0e268f","value":"Ingresa a inseparables"},{"id":"c10985f5-9ed6-439c-8f32-ddfc0bf2ed9d","value":"Inseparables registrados"},{"id":"87e258d3-9a9b-47d6-948b-597c4e45ade4","value":"Campos Inseparables 1 y 2 bloqueados , BOTÓN GUARDAR INHABILITADO  Y CAMBIAR HABILITADO"},{"id":"f075516c-d99a-4b81-9b78-ad1f35954093","value":"Usuario da clic en botón CAMBIAR en los inseparables"},{"id":"10dffe9f-9d0a-40d6-9e39-5d494e64915b","value":"Se habilitan los campos de inseparables"},{"id":"f1d0d034-e2c9-4bd9-be72-bd36426d7591","value":"Usuario CAMBIA los números registrados"},{"id":"d2b2a14a-bbd4-40c4-8f0d-9f554c621398","value":"Usuario cambio los números registrados"},{"id":"3f60456e-31fc-4485-837b-100361c7bbbf","value":"No se habilita el botón de GUARDAR"},{"id":"dd4baf11-0e95-4ae8-ba43-04c827d12988","value":"Se habilita el botón GUARDAR"},{"id":"1fffb799-79dd-4192-aae2-9133c8abe69b","value":""},{"id":"8b32eaa3-2b74-444b-8ee1-6408e9d34cdc","value":"Usuario Guarda CAMBIOS"},{"id":"49562a8a-a16e-45ee-877a-e9bc5541dc62","value":"Usuario acepta cambio y cobro"},{"id":"b9d3ab1c-fc5e-41df-81fb-5757518d20a7","value":"Cambio exitoso"},{"id":"876c63e2-e37b-48ae-9e2f-0c12bc2fe8c7","value":"Mensaje informativo exitoso"},{"id":"b31ea22c-ddcb-424d-89f5-8a4ca8d96ed0","value":""},{"id":"14d585a5-845b-4b7c-aba2-5936d54665f4","value":"Mensaje de alerta de cambio  NO exitoso"},{"id":"7e0210c6-043e-4d6c-8a3e-c56379e9cc42","value":""},{"id":"43202375-5e6e-44a3-9d03-ed3e79e5dc20","value":""}]}]}
